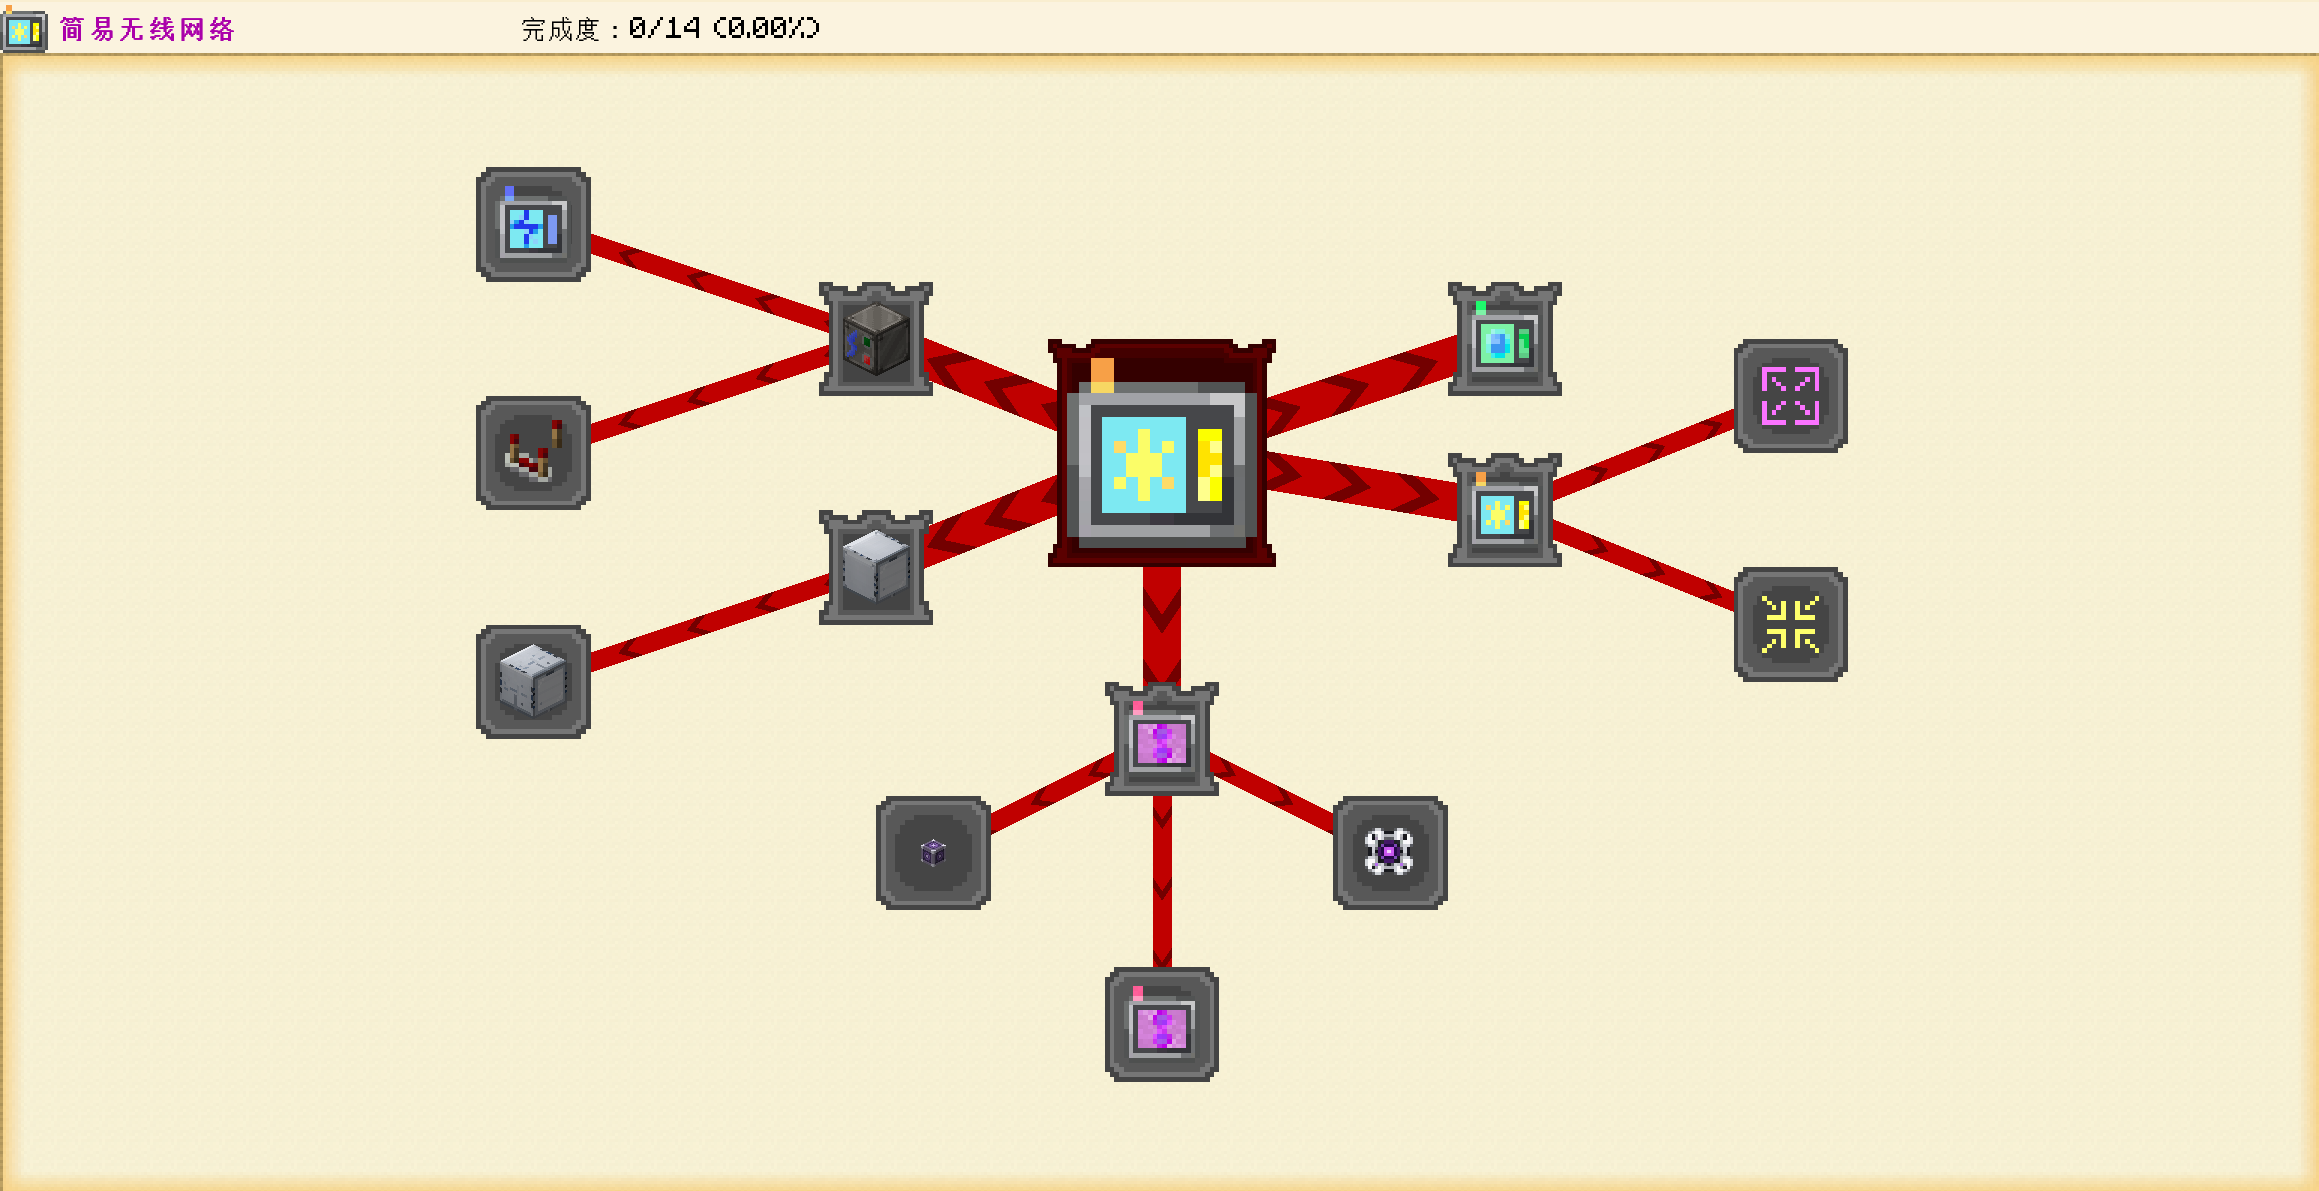
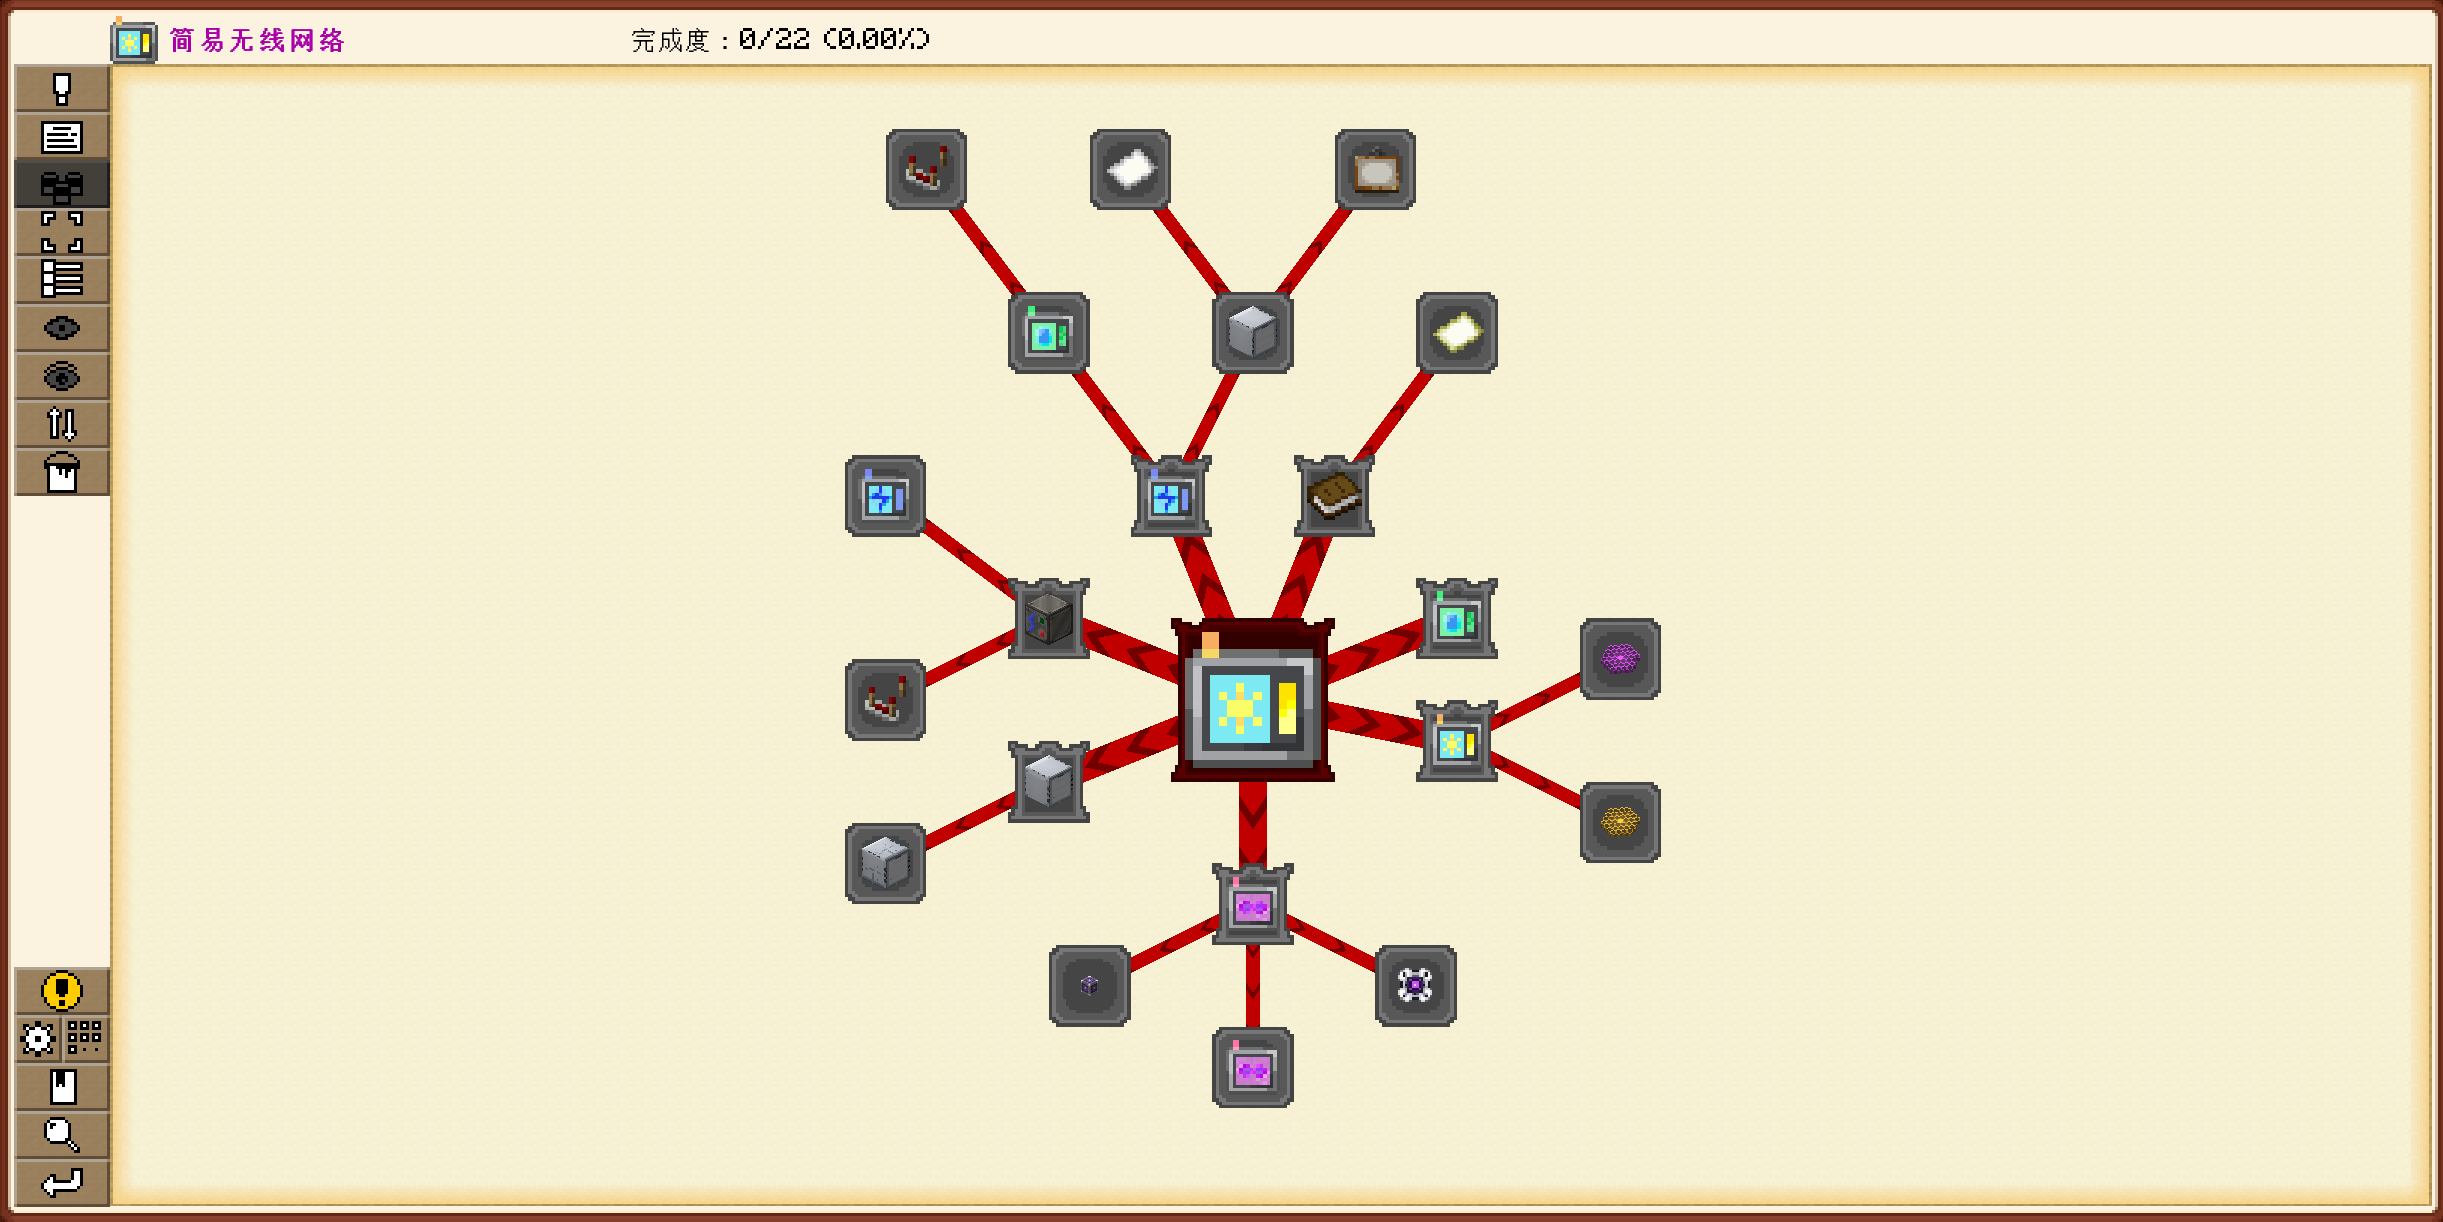
v2.0.35 更新22题任务书配图与说明
采用用户提供的实机截图，仅更新README任务书段落及对应图片。

Changed region(s): [[0.0, 0.0, 1.0, 1.0]]

diff --git a/README.md b/README.md
@@ -289,11 +289,15 @@ Bind supported GT working machines for status (Running/Idle/Stopped), actual EU 
 
 ## BQ 任务包 / BetterQuesting Quests
 
-<p align="center"><img src="images/BetterQuest.png" alt="简易无线网络14任务 / GT Simple Wireless Network: 14 quests" width="560"></p>
+<p align="center"><img src="images/BetterQuest.png" alt="简易无线网络22题任务线 / GT Simple Wireless Network: 22 quests" width="560"></p>
 
-内置中英双语 **简易无线网络 / GT Simple Wireless Network** 任务线，**14 题、全 LV 科技**：监视器/HUD → 链路/覆盖板 → 信息屏 → ME 量子化/锚点/调色及设备终端。描述含屏幕绑定、完整随身查看、AE 即时/平均挂载、设备扫描/可视化、忽略和安全传送/经验设置。自动加载；换 jar 同步旧世界定义、保留进度，任务身份/条件/奖励/前置不变。
+内置中英双语 **简易无线网络 / GT Simple Wireless Network** 任务线，共 **22 题**。涵盖无线供电、监测终端、信息屏与 ME 量子网络，并补充 C 键轮盘、工厂模式、区域电力审查、仪表盘编辑/预设分享，以及监测档案恢复和多人持续监测。按图谱分支学习，制作与绑定任务可按需穿插。
 
-Built-in bilingual **14-quest, all-LV** line covers monitors/HUD, links/covers, panels, ME quantization/anchors/colors and device terminals. Guidance includes panel binding, full portable views, AE instant/average pins, device scans/visualization, ignore and safe XP travel. Auto-loads; jar updates refresh existing-world definitions while preserving progress, quest identities/conditions/rewards/prerequisites.
+任务线自动加载；更换 JAR 后沿用现有机制更新旧世界定义并保留进度。原 14 题的 UUID、检测条件和奖励保持，布局与连线按新版任务图谱更新。
+
+The built-in bilingual **GT Simple Wireless Network** line contains **22 quests**. It covers wireless power, monitoring terminals, info panels and ME quantum networks, with guidance for the C wheel, Factory Mode, regional power audits, dashboard editing/preset sharing, recoverable monitoring profiles and continuous multiplayer monitoring. Follow the branches and prepare items and bindings as needed.
+
+The line loads automatically. JAR updates refresh existing-world definitions through the current progress-preserving mechanism. The original 14 quest UUIDs, checks and rewards remain unchanged; positions and prerequisites follow the updated graph.
 
 ## 命令 / Commands
 
